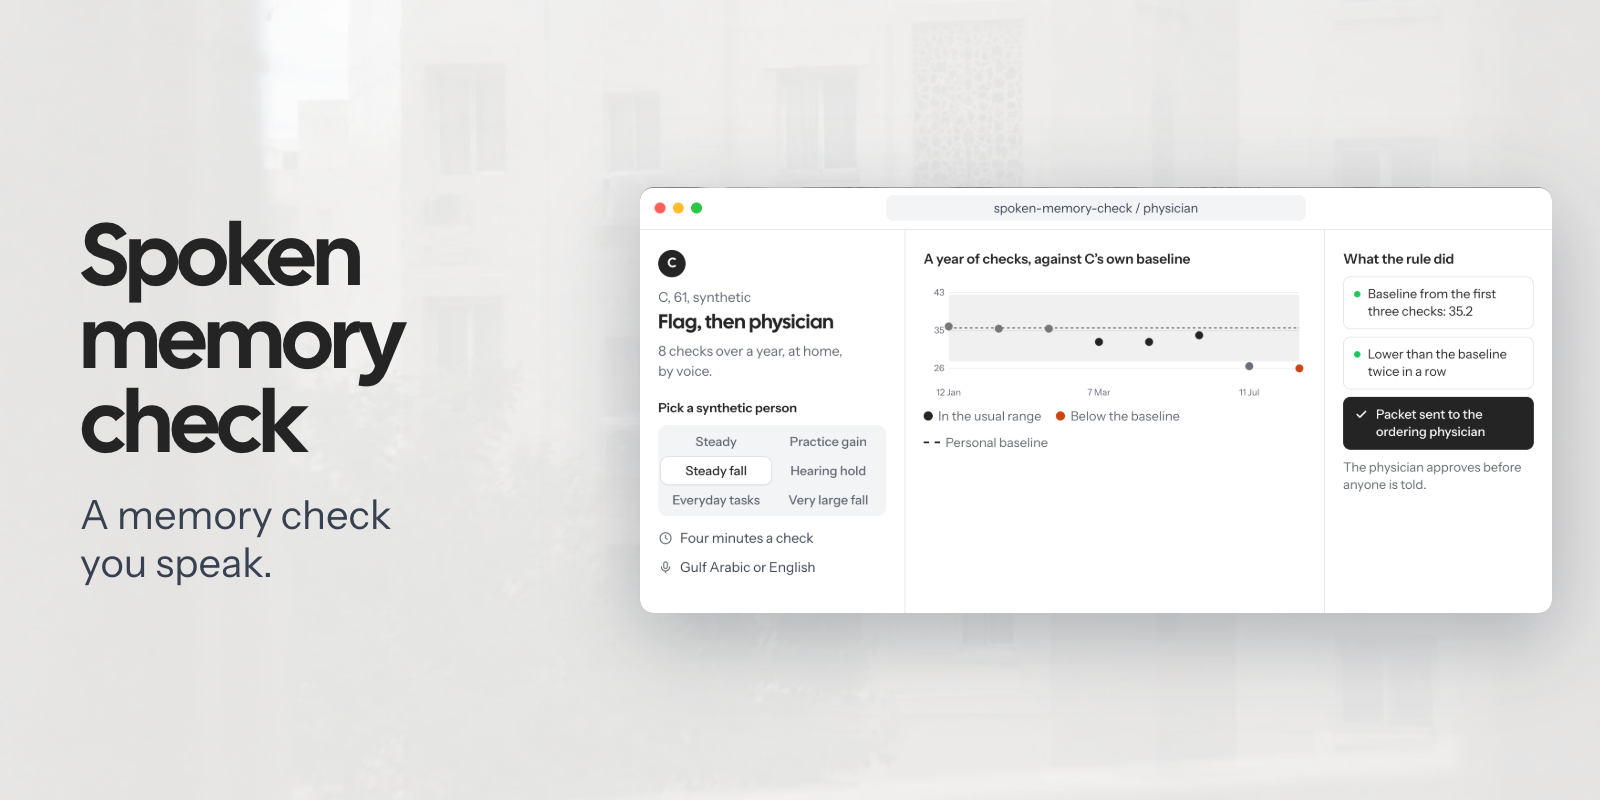
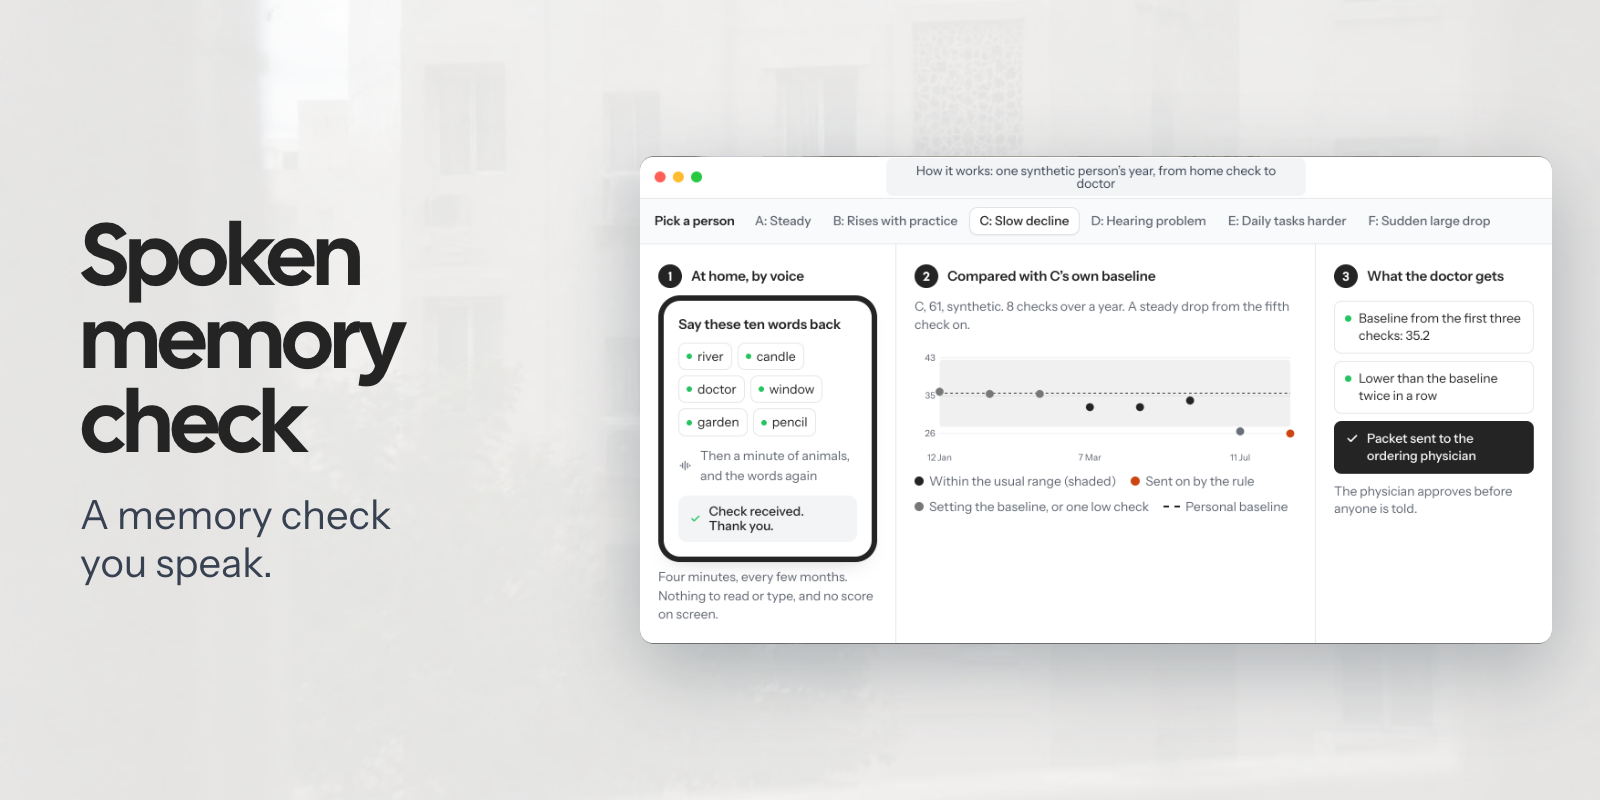
Say plainly on the first screen what the product is and does
Headline: a four-minute memory check, by voice, at home. Under it: compared with your own past
checks, and your doctor hears only lasting changes. The pill names the technology and its
measured result. The window shows one synthetic person's year in three numbered steps: the
check at home, the comparison with their own baseline, and what the doctor gets, with plain
labels for the six people. GIF, thumbnail and social images redone from the new window.

Changed region(s): [[0.375, 0.3125, 0.9688, 0.8125], [0.375, 0.1875, 0.9688, 0.2812], [0.8125, 0.3125, 0.9688, 0.6562]]

diff --git a/src/pages/Home.tsx b/src/pages/Home.tsx
@@ -10,7 +10,8 @@ import coverage from '../data/coverage-summary.json'
 import { COST_DEFAULTS, yearlyCost } from '../engine/cost'
 import { evaluate, PACKET_STATUSES, STATUS_LABEL, type Trajectory } from '../engine/change'
 import { PERSONAS, type Persona } from '../engine/histories'
-import { Alert, Check, Clock, Code, Ear, EyeOff, List, Mic, Moon, Trend, Waves } from '../components/Icons'
+import { WORD_LISTS } from '../engine/lexicon'
+import { Alert, Check, Code, Ear, EyeOff, List, Mic, Moon, Trend, Waves } from '../components/Icons'
 import TrajectoryChart from './TrajectoryChart'
 
 const rows = data.rows.filter((r) => r.world === 'As assumed')
@@ -82,7 +83,7 @@ function ChartKey() {
   )
 }
 
-const CHIP: Record<string, string> = { stable: 'Steady', practice: 'Practice gain', decline: 'Steady fall', hearing: 'Hearing hold', function: 'Everyday tasks', urgent: 'Very large fall' }
+const CHIP: Record<string, string> = { stable: 'Steady', practice: 'Rises with practice', decline: 'Slow decline', hearing: 'Hearing problem', function: 'Daily tasks harder', urgent: 'Sudden large drop' }
 
 /** Modelled yearly cost for one provider, with the uptake slider. */
 function CostPanel() {
@@ -110,6 +111,7 @@ function CostPanel() {
 }
 
 
+const WORDS = WORD_LISTS.en[0]
 const packetPeople = PERSONAS.map((p) => ({ p, t: evaluate(p.checks) })).filter(({ p, t }) => !outcome(t, p).ok)
 const MEASURED = [
   `${pct1(ours.falseAlarmYear)} false alarms a year in stable people, simulated`,
@@ -124,9 +126,10 @@ const NOT_YET = ['No older Emirati volunteers doing the check', 'Arabic lists no
 
 type Design = { onReplay?: (fn: () => void) => void }
 
-/** The real rule on six synthetic people, laid out like a booking widget. Choosing a person, or
- *  pressing R in a demo, replays the signature moment: the year of checks lands one check at a
- *  time, then each step of the rule, then the outcome. */
+/** One synthetic person's year, end to end, in three numbered steps: the check at home, the
+ *  comparison with their own baseline, and what the doctor gets. Choosing a person, or pressing R
+ *  in a demo, replays the signature moment: the checks land one at a time, then each step of the
+ *  rule, then the outcome. */
 function CalWidget() {
   const [id, setId] = useState('decline')
   const [run, setRun] = useState(0)
@@ -137,32 +140,38 @@ function CalWidget() {
   const steps = ruleSteps(p, t)
   const n = p.checks.length
   const key = `${id}-${run}`
+  const first = p.name.split(',')[0]
   return (
-    <div className="c-widget">
-      <div className="c-widget__who">
-        <span className="c-av">{p.name.slice(0, 1)}</span>
-        <p className="c-widget__name">{p.name}, synthetic</p>
-        <p className="c-widget__title">{p.path}</p>
-        <p className="c-widget__desc">{n} checks over a year. {p.story.split('. ')[0].replace(/\.$/, '')}.</p>
-        <p className="c-widget__pick">Pick a synthetic person</p>
-        <div className="c-seg" role="group" aria-label="Pick a synthetic person">
-          {PERSONAS.map((x) => <button key={x.id} type="button" aria-pressed={x.id === id} className={x.id === id ? 'is-on' : ''} onClick={() => { setId(x.id); setRun((r) => r + 1) }}>{CHIP[x.id]}</button>)}
+    <>
+      <div className="c-people" role="group" aria-label="Pick a synthetic person">
+        <span className="c-people__label">Pick a person</span>
+        {PERSONAS.map((x) => <button key={x.id} type="button" aria-pressed={x.id === id} className={x.id === id ? 'is-on' : ''} onClick={() => { setId(x.id); setRun((r) => r + 1) }}>{x.name.split(',')[0]}: {CHIP[x.id]}</button>)}
+      </div>
+      <div className="c-widget">
+        <div className="c-col">
+          <p className="c-col__n"><b>1</b>At home, by voice</p>
+          <div className="c-phone">
+            <p className="c-phone__h">Say these ten words back</p>
+            <p className="c-phone__chips">{WORDS.slice(0, 6).map((w) => <span key={w}>{w}</span>)}</p>
+            <p className="c-phone__step"><Waves />Then a minute of animals, and the words again</p>
+            <p className="c-phone__done"><Check />Check received. Thank you.</p>
+          </div>
+          <p className="c-col__note">Four minutes, every few months. Nothing to read or type, and no score on screen.</p>
         </div>
-        <p className="c-widget__row"><Clock />Four minutes a check</p>
-        <p className="c-widget__row"><Mic />Gulf Arabic or English</p>
+        <div className="c-col">
+          <p className="c-col__n"><b>2</b>Compared with {first}’s own baseline</p>
+          <p className="c-col__who">{p.name}, synthetic. {n} checks over a year. {p.story.split('. ')[0].replace(/\.$/, '')}.</p>
+          <TrajectoryChart key={key} checks={p.checks} traj={t} compact textSize={17} animate />
+          <ChartKey />
+        </div>
+        <div className="c-col" key={key} style={{ '--n': n } as React.CSSProperties}>
+          <p className="c-col__n"><b>3</b>What the doctor gets</p>
+          {steps.map((s, i) => <p key={s.label} className="c-slot c-sig" style={{ '--i': i } as React.CSSProperties}><i />{s.label}</p>)}
+          <p className={`c-slot c-slot--out c-sig c-sig--out ${o.ok ? 'is-ok' : 'is-flag'}`} style={{ '--i': steps.length } as React.CSSProperties}><Check />{o.text}</p>
+          <p className="c-widget__side c-sig" style={{ '--i': steps.length + 1 } as React.CSSProperties}>{o.side}</p>
+        </div>
       </div>
-      <div className="c-widget__chart">
-        <p className="c-widget__h">A year of checks, against {p.name.split(',')[0]}’s own baseline</p>
-        <TrajectoryChart key={key} checks={p.checks} traj={t} compact textSize={17} animate />
-        <ChartKey />
-      </div>
-      <div className="c-widget__steps" key={key} style={{ '--n': n } as React.CSSProperties}>
-        <p className="c-widget__h">What the rule decided</p>
-        {steps.map((s, i) => <p key={s.label} className="c-slot c-sig" style={{ '--i': i } as React.CSSProperties}><i />{s.label}</p>)}
-        <p className={`c-slot c-slot--out c-sig c-sig--out ${o.ok ? 'is-ok' : 'is-flag'}`} style={{ '--i': steps.length } as React.CSSProperties}><Check />{o.text}</p>
-        <p className="c-widget__side c-sig" style={{ '--i': steps.length + 1 } as React.CSSProperties}>{o.side}</p>
-      </div>
-    </div>
+    </>
   )
 }
 
@@ -198,20 +207,20 @@ export default function Home() {
   return (
     <main className="dh dh-c">
       <section className="c-hero">
-        <p className="c-pill"><span>New</span>Gulf Arabic: {arabic}% of {own.whisperAlone.n} real words heard on the device</p>
+        <p className="c-pill"><span>New</span>Speech recognition on the device heard {arabic}% of {own.whisperAlone.n} real Arabic words</p>
         <h1>
-          <span className="c-line">A memory check <span className="c-obj c-obj--word" aria-hidden="true"><Mic /><b lang="ar">نهر</b><small>river</small></span> you speak,</span>{' '}
-          <span className="c-line"><span className="c-obj c-obj--wave" aria-hidden="true"><Waves /><b>4 min</b></span> tracked against yourself <span className="c-obj c-obj--card" aria-hidden="true"><b>Check received</b><small><Check />Thank you</small></span></span>
+          <span className="c-line">A four-minute memory check <span className="c-obj c-obj--word" aria-hidden="true"><Mic /><b lang="ar">نهر</b><small>river</small></span></span>{' '}
+          <span className="c-line">by voice, at home <span className="c-obj c-obj--card" aria-hidden="true"><b>Check received</b><small><Check />Thank you</small></span></span>
         </h1>
-        <p className="c-sub">By voice, in Gulf Arabic or English. Nothing to read or type.</p>
+        <p className="c-sub">Compared with your own past checks. Your doctor hears only lasting changes.</p>
         <p className="c-btns"><Link to="/try" className="c-btn c-btn--dark"><Mic />Try it with your voice</Link><Link to="/year" className="c-btn"><Trend />See a year of checks</Link></p>
-        <p className="c-small"><b>No sign-up.</b> Below: the physician’s view, run on six synthetic people.</p>
+        <p className="c-small"><b>No sign-up.</b> Gulf Arabic or English, nothing to read or type.</p>
       </section>
 
       <section className="c-desk">
-        <div className="c-desk__menu"><b>Spoken memory check</b><span>File</span><span>Edit</span><span>View</span><span>Window</span><span>Help</span><span className="c-desk__right">Synthetic people</span></div>
+        <div className="c-desk__menu"><b>Spoken memory check</b><span className="c-desk__right">Synthetic people</span></div>
         <div className="c-browser">
-          <div className="c-browser__bar"><span className="c-lights" aria-hidden="true"><i /><i /><i /></span><span className="c-url">Physician’s view: what the rule decided for each person</span></div>
+          <div className="c-browser__bar"><span className="c-lights" aria-hidden="true"><i /><i /><i /></span><span className="c-url">How it works: one synthetic person’s year, from home check to doctor</span></div>
           <CalWidget />
         </div>
       </section>

diff --git a/src/styles/design/theme.css b/src/styles/design/theme.css
@@ -337,3 +337,29 @@ body { background: var(--bg); color: var(--ink-2); font-family: var(--font-body)
 .try-panel > :last-child { margin-bottom: 0 !important; }
 .try-panel .stack { margin-bottom: 0; }
 @media (max-width: 640px) { .try-panel { padding: 20px 18px 22px; border-radius: 18px; } }
+
+/* The home window: one person's year in three numbered steps */
+.c-people { display: flex; flex-wrap: wrap; align-items: center; gap: 4px; padding: 10px 16px; border-bottom: 1px solid #e5e7eb; background: #f9fafb; }
+.c-people__label { margin-right: 8px; font: 600 14px/1 var(--font-ui); color: #242424; }
+.c-people button { padding: 7px 10px; border-radius: 8px; font: 500 14px/1.1 var(--font-ui); color: #5f6570; }
+.c-people button:hover { background: #f3f4f6; color: #242424; }
+.c-people button.is-on { background: #fff; color: #242424; box-shadow: 0 0 0 1px rgba(15, 35, 75, .1), 0 1px 2px rgba(15, 35, 75, .08); }
+.c-widget { grid-template-columns: 280px minmax(0, 1fr) 260px; }
+.c-col { padding: 20px; }
+.c-col + .c-col { border-left: 1px solid #e5e7eb; }
+.c-col__n { display: flex; align-items: center; gap: 10px; margin-bottom: 14px; font: 600 15px/1.25 var(--font-ui); color: #242424; }
+.c-col__n b { display: inline-grid; place-items: center; flex: none; width: 26px; height: 26px; border-radius: 50%; background: #242424; color: #fff; font: 400 14px/1 var(--font-display); }
+.c-col__who { margin: -4px 0 8px; font-size: 14px; line-height: 1.45; color: #5f6570; }
+.c-col__note { margin-top: 12px; font-size: 14px; line-height: 1.45; color: #5f6570; }
+.c-phone { display: grid; gap: 10px; padding: 16px; border-radius: 18px; background: #fff; box-shadow: 0 0 0 6px #242424, 0 14px 22px -12px rgba(0, 0, 0, .25); margin: 6px; }
+.c-phone__h { font: 600 15px/1.3 var(--font-ui); color: #242424; }
+.c-phone__chips { display: flex; flex-wrap: wrap; gap: 6px; }
+.c-phone__chips span { display: inline-flex; align-items: center; gap: 6px; padding: 4px 9px; border-radius: 8px; box-shadow: inset 0 0 0 1px #e5e7eb; font-size: 14px; color: #242424; }
+.c-phone__chips span::before { content: ""; width: 6px; height: 6px; border-radius: 50%; background: #22c55e; }
+.c-phone__step { display: flex; align-items: center; gap: 8px; font-size: 14px; color: #5f6570; }
+.c-phone__step svg { flex: none; width: 16px; height: 16px; }
+.c-phone__done { display: flex; align-items: center; gap: 8px; padding: 9px 12px; border-radius: 10px; background: #f3f4f6; font: 500 14px/1.2 var(--font-ui); color: #242424; }
+.c-phone__done svg { width: 16px; height: 16px; color: #22c55e; stroke-width: 2.5; }
+.c-col .c-slot:first-of-type { margin-top: 0; }
+@media (max-width: 1000px) { .c-col + .c-col { border-left: 0; border-top: 1px solid #e5e7eb; } }
+@media (max-width: 520px) { .c-people__label { width: 100%; margin-bottom: 4px; } }
